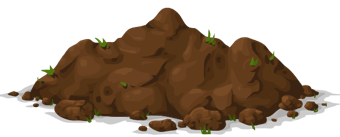
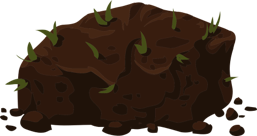
digging part functional. Needs refactoring.

diff --git a/Scripts/Game.py b/Scripts/Game.py
@@ -32,7 +32,8 @@ class Game:
 
         self.__startUp()
 
-        self.__shovelFlag = False
+        self.__digging = False
+        self.__sieving = False
 
     # Add a sprite to be rendered
     def addSprite(self, sprite):
@@ -72,16 +73,32 @@ class Game:
             for sp in clicked_sprites:
                 print("The following sprite was clicked: %s" % sp)
 
-            if self.rawDirt.rect.collidepoint(pos):
-                    print("HEYYYYYYY")
-                    self.rawDirt.loadImage("../imgs/dirt.png")
-                    self.__shovelFlag = True
+            if self.rawDirt.rect.collidepoint(pos) and not self.__sieving:
+                self.rawDirt.loadImage("../imgs/rawDirt.png")
+                self.__digging = True
 
-        if self.__shovelFlag:
-            shovel = Objects.Renderable()
-            shovel.loadImage("../imgs/shovel.png")
+            if self.sieve.rect.collidepoint(pos):
+
+                # dirt placed on sieve
+                if self.__sieving:
+                    self.__renderables.remove(self.dirt)
+                    self.__sieving = False
+
+                # rawDirt clicked
+                if self.__digging:
+                    self.dirt = Objects.Renderable()
+                    self.dirt.loadImage("../imgs/dirt.png")
+                    sievePos = self.sieve.getPosition()
+                    self.dirt.setPosition(sievePos[0], sievePos[1])
+                    self.__renderables.append(self.dirt)
+                    self.__digging = False
+                    self.__sieving = True
+
+        if self.__digging:
+            self.shovel = Objects.Renderable()
+            self.shovel.loadImage("../imgs/shovel.png")
             pos = pygame.mouse.get_pos()
-            shovel.setPosition(pos[0], pos[1])
+            self.shovel.setPosition(pos[0], pos[1])
         else:
             self.rawDirt.loadImage("../imgs/dirtWithShovel.png")
 
@@ -98,17 +115,20 @@ class Game:
         for object in self.__renderables:
             self.__window.blit(object.getImage(), object.getPosition())
 
+        if self.__digging:
+            self.__window.blit(self.shovel.getImage(), self.shovel.getPosition())
+
         pygame.display.update()
 
     def __startUp(self):
-        object = Objects.Renderable()
-        object.loadImage("../imgs/circle.png")
-        object.setPosition(0, 0)
-        self.__renderables.append(object)
-        self.__clickables.append(object)
+        self.sieve = Objects.Renderable()
+        self.sieve.loadImage("../imgs/circle.png")
+        self.sieve.setPosition(0, 0)
+        self.__renderables.append(self.sieve)
+        self.__clickables.append(self.sieve)
 
         self.rawDirt = Objects.Renderable()
         self.rawDirt.loadImage("../imgs/dirtWithShovel.png")
         self.rawDirt.setPosition(500, 0)
-        # self.name = 'rawDirt'
+        self.__digging = False
         self.__renderables.append(self.rawDirt)
